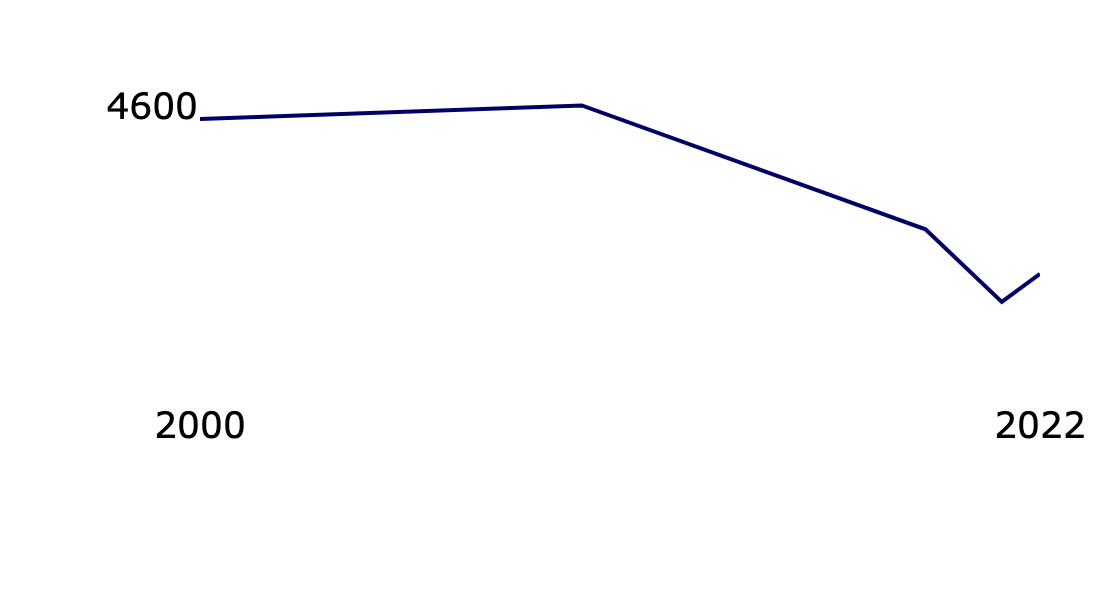
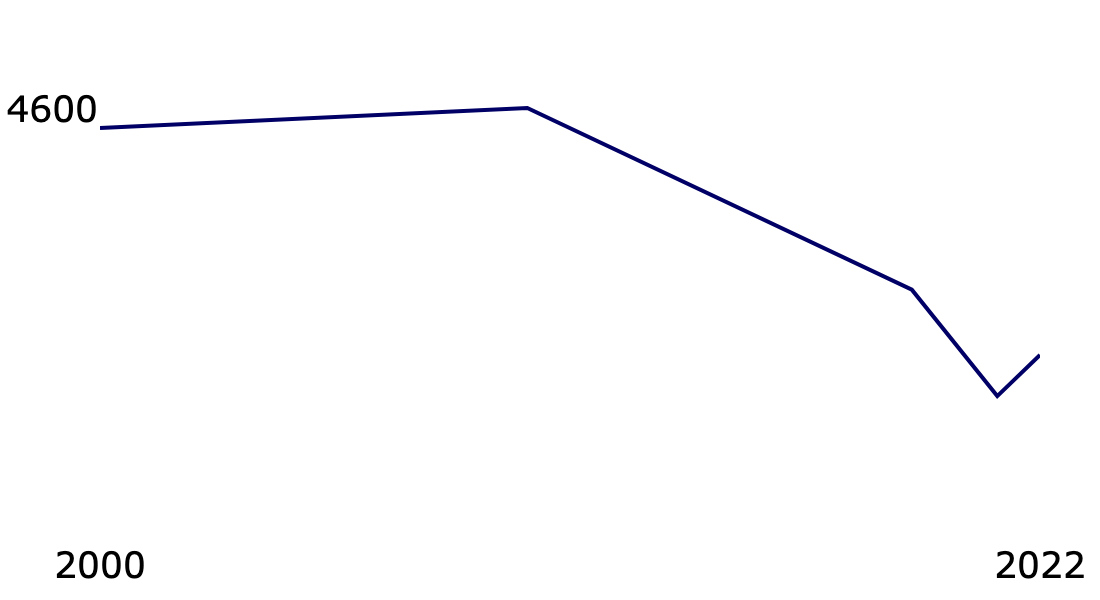
Correct the margin for skeleton graph outlines

diff --git a/pages/components/PlotALineGraph.tsx b/pages/components/PlotALineGraph.tsx
@@ -75,7 +75,7 @@ export default function PlotALineGraph({yAxisLabel, yAxisValues, xAxisLabel, xAx
 //         ]}
 //         layout={{
 //           autosize: true,
-//           margin: { t: 50, b: 100, l: 100, r: 30 },
+//           margin: { t: 50, b: 30, l: 50, r: 30 },
 //           xaxis: {
 //             title: {
 //               //text: xAxisLabel,
@@ -95,8 +95,8 @@ export default function PlotALineGraph({yAxisLabel, yAxisValues, xAxisLabel, xAx
 //             title: {
 //               //text: yAxisLabel,
 //             },
-//             tickvals: [1000000], //Adjust to suit max data value
-//             range: [0, 1000000], //Adjust to suit max data value
+//             tickvals: [4600], //Adjust to suit max data value
+//             range: [0, 4700], //Adjust to suit max data value
 //             tickfont: {
 //               size: 18,
 //               color: "black",

diff --git a/pages/components/SkeletonChart.tsx b/pages/components/SkeletonChart.tsx
@@ -1,5 +1,4 @@
 import Link from "next/link";
-import styles from "../../styles/Skeleton.module.scss";
 
 export type SkeletonProps = {
   rootTestId: string;
